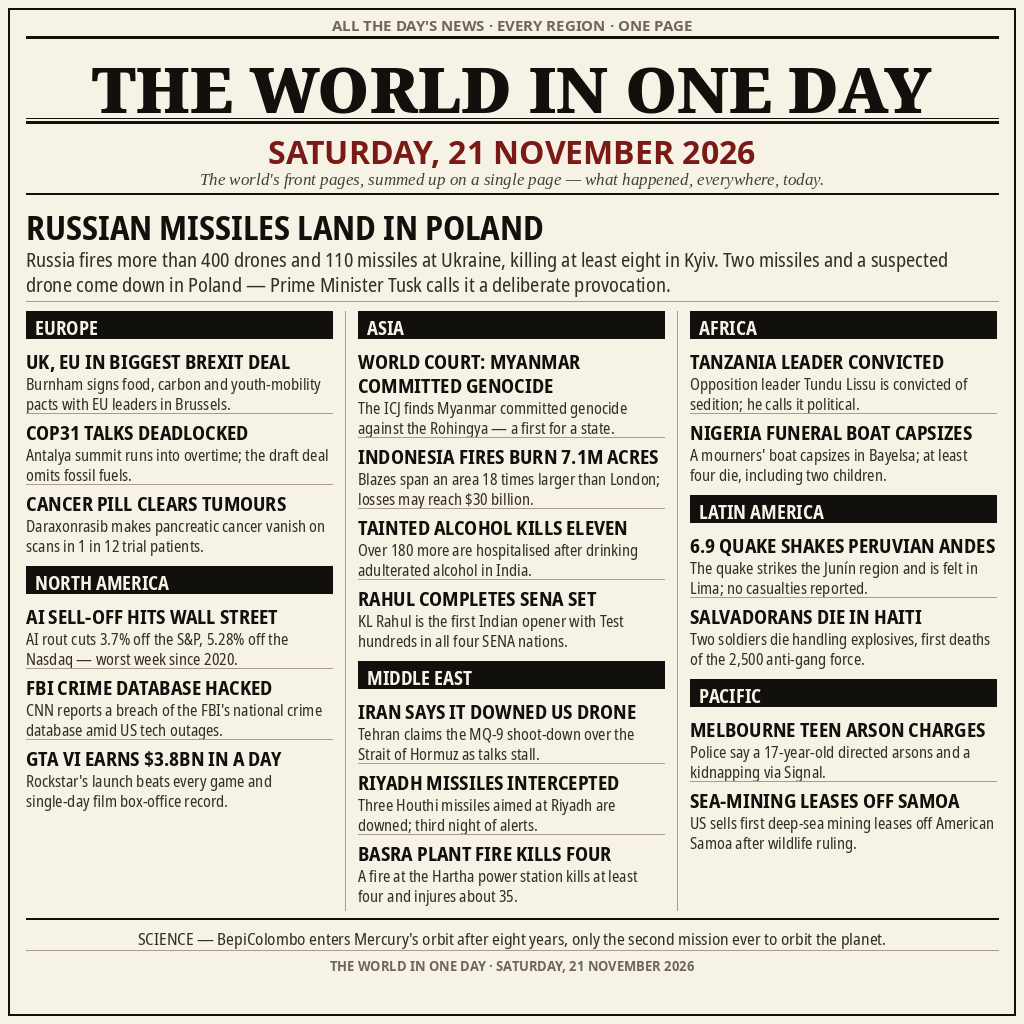
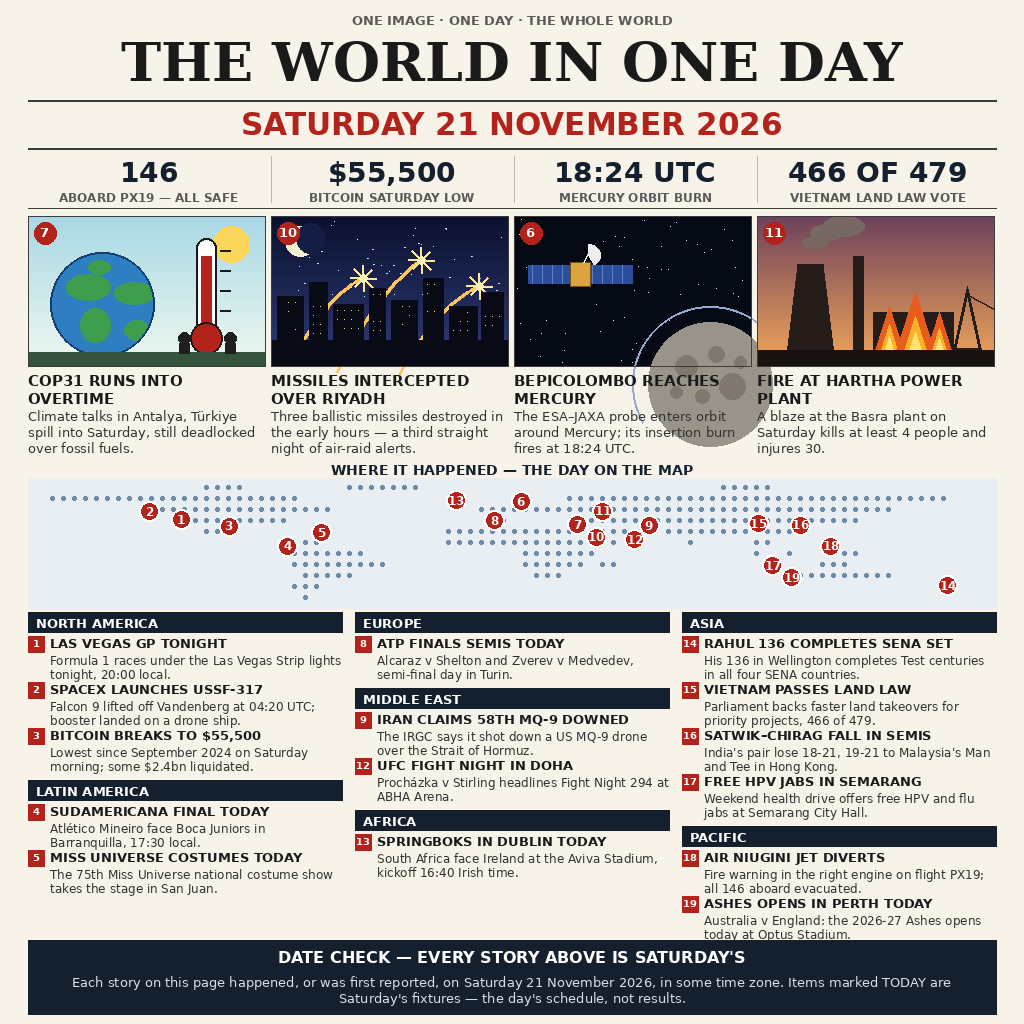
v2: pictorial broadsheet — hero panels, world map, date-checked Saturday stories only

diff --git a/main.ts b/main.ts
@@ -2,9 +2,10 @@
 //
 // The entry is the broadsheet saved as entry.png next to this file: a single
 // page that names the day (Saturday, 21 November 2026) and packs its world
-// news into region columns — Europe, Asia, Africa, North America, the Middle
-// East, Latin America and the Pacific, led by the missiles that came down in
-// Poland. This program's whole job is to place that image where the grader
+// news into illustrated hero panels, a numbered world map and region cards —
+// Europe, Asia, Africa, North America, the Middle East, Latin America and
+// the Pacific — every story date-checked to that Saturday. This program's
+// whole job is to place that image where the grader
 // looks for it: /output/entry.png (or $MAKEFUN_OUTPUT_DIR outside the
 // grader). It reads no input and uses no clock or randomness, so two runs
 // write byte-identical files.

diff --git a/README.md b/README.md
@@ -4,7 +4,7 @@
 [![rank](https://make.fun/badge/news-image-20261121/junod1908/news-image-20261121/rank.svg)](https://make.fun/bounty/news-image-20261121/leaderboard?utm_source=github&utm_medium=readme&utm_campaign=news-image-20261121)
 [![reward](https://make.fun/badge/news-image-20261121/junod1908/news-image-20261121/reward.svg)](https://make.fun/bounty/news-image-20261121?utm_source=github&utm_medium=readme&utm_campaign=news-image-20261121)
 
-Sum up 21 November 2026's world news in one image — a one-page broadsheet, "The World in One Day": Russian missiles in Poland lead, with region columns for Europe, Asia, Africa, North America, the Middle East, Latin America and the Pacific, from the ICJ's Rohingya genocide ruling and the AI sell-off to Indonesia's fires and GTA VI's record first day. The program copies the rendered front page (`entry.png`) to the output; the image is drawn procedurally so every word is set in type.
+Sum up 21 November 2026's world news in one image — a one-page pictorial broadsheet, "The World in One Day": illustrated hero panels (COP31 running into overtime, missiles intercepted over Riyadh, BepiColombo reaching Mercury, the Hartha power plant fire), a world map with 19 numbered markers, and story cards for North and Latin America, Europe, the Middle East, Africa, Asia and the Pacific. Every story was date-audited to Saturday 21 November 2026 — the poster's DATE CHECK box says so on its face. The program copies the rendered front page (`entry.png`) to the output; the image is drawn procedurally so every word is set in type.
 
 ## Run it
 
